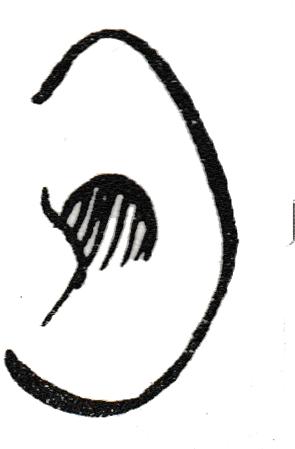
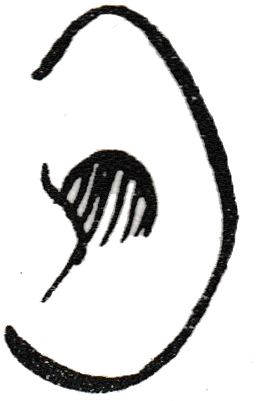
All heads work with both ears

Changed region(s): [[0.0, 0.0, 0.8602, 0.9875], [0.1147, 0.3591, 0.5735, 0.7781], [0.9749, 0.4489, 1.0, 0.5686]]

diff --git a/templates/Main.html b/templates/Main.html
@@ -13,10 +13,74 @@
                 document.getElementById("EarsX").style.left = "9em";
                 document.getElementById("EarsY").style.left = "85em";
             } else if (head.includes('Head2.jpg')) {
-                document.getElementById("EarsX").style.left = "9em";
-                document.getElementById("EarsY").style.left = "85em";
+                document.getElementById("EarsX").style.left = "10em";
+                document.getElementById("EarsX").style.top = "35em";
+                document.getElementById("EarsY").style.left = "82em";
+                document.getElementById("EarsY").style.top = "35em";
                 document.getElementById("EarsX").style.transform = 'rotate(25deg)';
                 document.getElementById("EarsY").style.transform = 'rotate(-25deg)';
+            } else if (head.includes('Head4.jpg')) {
+                document.getElementById("EarsX").style.top = "35em";
+                document.getElementById("EarsX").style.transform = 'rotate(40deg)';
+                document.getElementById("EarsY").style.top = "35em";
+                document.getElementById("EarsY").style.transform = 'rotate(-40deg)';
+            } else if (head.includes('Head5.jpg')) {
+                document.getElementById("EarsX").style.left = "8em";
+                document.getElementById("EarsX").style.top = "55em";
+                document.getElementById("EarsX").style.transform = 'rotate(-30deg)';
+                document.getElementById("EarsY").style.left = "84em";
+                document.getElementById("EarsY").style.top = "51em";
+                document.getElementById("EarsY").style.transform = 'rotate(30deg)';
+            } else if (head.includes('Head6.jpg')) {
+                document.getElementById("EarsX").style.left = "10em";
+                document.getElementById("EarsX").style.transform = 'rotate(-20deg)';
+                document.getElementById("EarsY").style.transform = 'rotate(20deg)';
+            } else if (head.includes('Head7.jpg')) {
+                document.getElementById("EarsX").style.left = "18em";
+                document.getElementById("EarsX").style.transform = 'rotate(-25deg)';
+                document.getElementById("EarsY").style.left = "79em";
+                document.getElementById("EarsY").style.transform = 'rotate(25deg)';
+            } else if (head.includes('Head8.jpg')) {
+                document.getElementById("EarsX").style.left = "5em";
+                document.getElementById("EarsX").style.top = "53em";
+                document.getElementById("EarsY").style.left = "90em";
+                document.getElementById("EarsY").style.top = "53em";
+            } else if (head.includes('Head9.jpg')) {
+                document.getElementById("EarsY").style.left = "86em";
+            } else if (head.includes('Head10.jpg')) {
+                document.getElementById("EarsX").style.left = "5em";
+                document.getElementById("EarsX").style.transform = 'rotate(20deg)';
+                document.getElementById("EarsY").style.left = "88em";
+                document.getElementById("EarsY").style.transform = 'rotate(-20deg)';
+            } else if (head.includes('Head11.jpg')) {
+                document.getElementById("EarsX").style.left = "10em";
+                document.getElementById("EarsX").style.transform = 'rotate(-20deg)';
+                document.getElementById("EarsY").style.left = "80em";
+                document.getElementById("EarsY").style.transform = 'rotate(20deg)';
+            } else if (head.includes('Head12.jpg')) {
+                document.getElementById("EarsX").style.left = "6em";
+                document.getElementById("EarsY").style.left = "88em";
+            } else if (head.includes('Head13.jpg')) {
+                document.getElementById("EarsX").style.transform = 'rotate(-20deg)';
+                document.getElementById("EarsY").style.left = "83em";
+                document.getElementById("EarsY").style.transform = 'rotate(20deg)';
+            } else if (head.includes('Head14.jpg')) {
+                document.getElementById("EarsX").style.top = "40em";
+                document.getElementById("EarsX").style.left = "22em";
+                document.getElementById("EarsY").style.top = "40em";
+                document.getElementById("EarsY").style.left = "72em";
+            } else if (head.includes('Head15.jpg')) {
+                document.getElementById("EarsX").style.left = "6em";
+                document.getElementById("EarsX").style.transform = 'rotate(26deg)';
+                document.getElementById("EarsY").style.left = "84em";
+                document.getElementById("EarsY").style.transform = 'rotate(-26deg)';
+            } else if (head.includes('Head16.jpg')) {
+                document.getElementById("EarsX").style.top = "40em";
+                document.getElementById("EarsX").style.left = "11em";
+                document.getElementById("EarsX").style.transform = 'rotate(20deg)';
+                document.getElementById("EarsY").style.top = "40em";
+                document.getElementById("EarsY").style.left = "84em";
+                document.getElementById("EarsY").style.transform = 'rotate(-20deg)';
             }
         }
     </script>
@@ -35,7 +99,9 @@
             left:10em;
         }
         #Heads {
-            border: 5px solid black;
+/*            border: 5px solid black;
+            padding: 2em;
+*/            
             position: absolute;
             top: 10em;
             left: 10em;
@@ -60,12 +126,12 @@
         #EarsX {
             position: absolute;
             top: 45em;
-            left: 16em;
+            left: 9em;
         }
         #EarsY {
             position: absolute;
             top: 45em;
-            left: 90em;
+            left: 85em;
         }
     </style>
 </head>

diff --git a/app.py b/app.py
@@ -51,7 +51,7 @@ def SetFileName():
     global fileName, Head
     newHead = Head
     while newHead == Head:
-        newHead = 2  # random.randint(1,NumberHeads)
+        newHead = random.randint(1,NumberHeads)
     Head = newHead
     fileName = r'/images/Heads/Head' + str(Head) + '.jpg'
 
